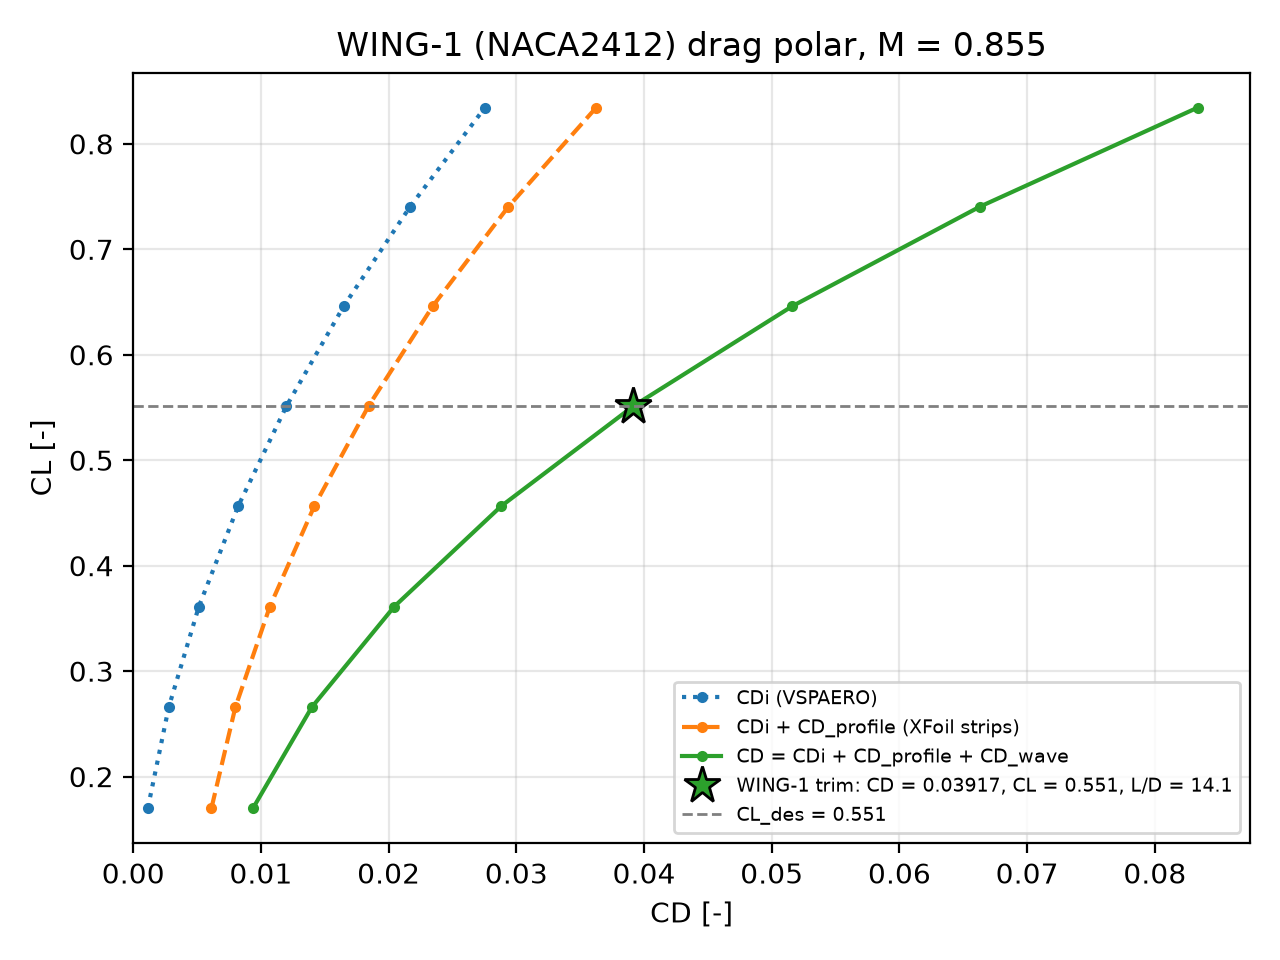
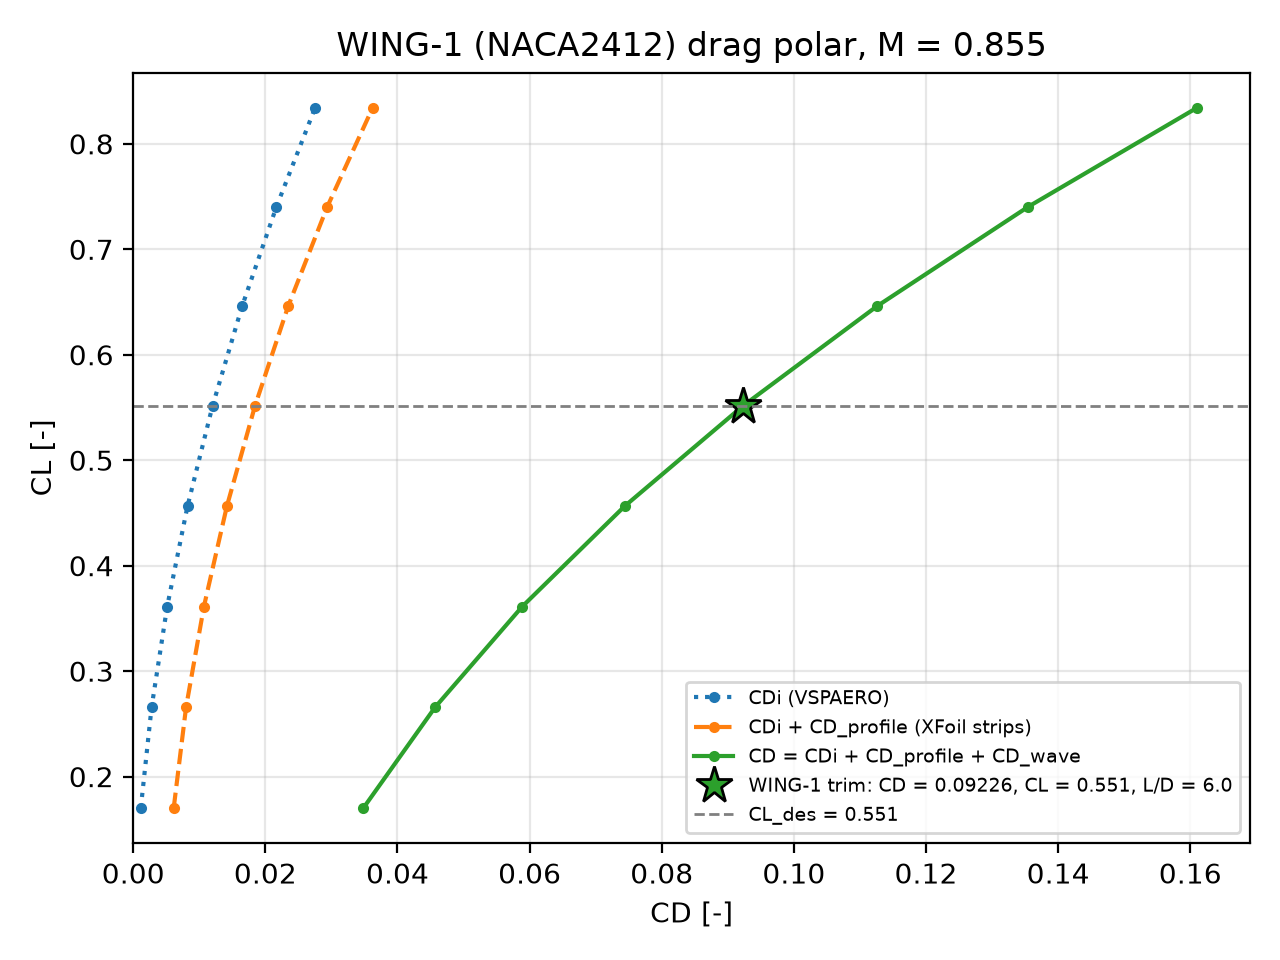
Fix for kappa

diff --git a/results/wing/drag_summary.md b/results/wing/drag_summary.md
@@ -12,12 +12,12 @@ CD = CDi (VSPAERO, Trefftz plane) + CD_profile (XFoil polar, strip by strip) + C
 
 | Wing | File | Section | Re | M | Ncrit | c_ref [m] | usable cl_n | t/c | κ_A | points with cp_min < Cp* |
 |---|---|---|---|---|---|---|---|---|---|---|
-| WING-1 | naca2412_polar.csv | NACA 2412 | 4.1700e+07 | 0.1 | 10.0 | 9.867 | -0.683 … 2.142 | 0.1200 | 0.87 | n/a (polar at M = 0.1) |
+| WING-1 | naca2412_polar.csv | NACA 2412 | 4.1700e+07 | 0.1 | 10.0 | 9.867 | -0.683 … 2.142 | 0.1200 | 0.8 | n/a (polar at M = 0.1) |
 | WING-2 | naca66-410_polar.csv | NACA 66-410 | 4.1700e+07 | 0.1 | 10.0 | 9.867 | -0.535 … 2.044 | 0.1000 | 0.87 | n/a (polar at M = 0.1) |
 
 ## Trim point (CL = CL_des = 0.5513)
 
 | Wing | α_trim [deg] | CDi | CD_profile | CD_wave | M_dd | CD | L/D | CD (cos3) | L/D (cos3) |
 |---|---|---|---|---|---|---|---|---|---|
-| WING-1 | +0.000 | 0.01200 | 0.00642 | 0.02074 | 0.7776 | 0.03917 | 14.08 | 0.03595 | 15.34 |
+| WING-1 | +0.000 | 0.01200 | 0.00642 | 0.07384 | 0.6932 | 0.09226 | 5.98 | 0.08904 | 6.19 |
 | WING-2 | +0.000 | 0.01189 | 0.00599 | 0.01086 | 0.8066 | 0.02874 | 19.19 | 0.02574 | 21.42 |
